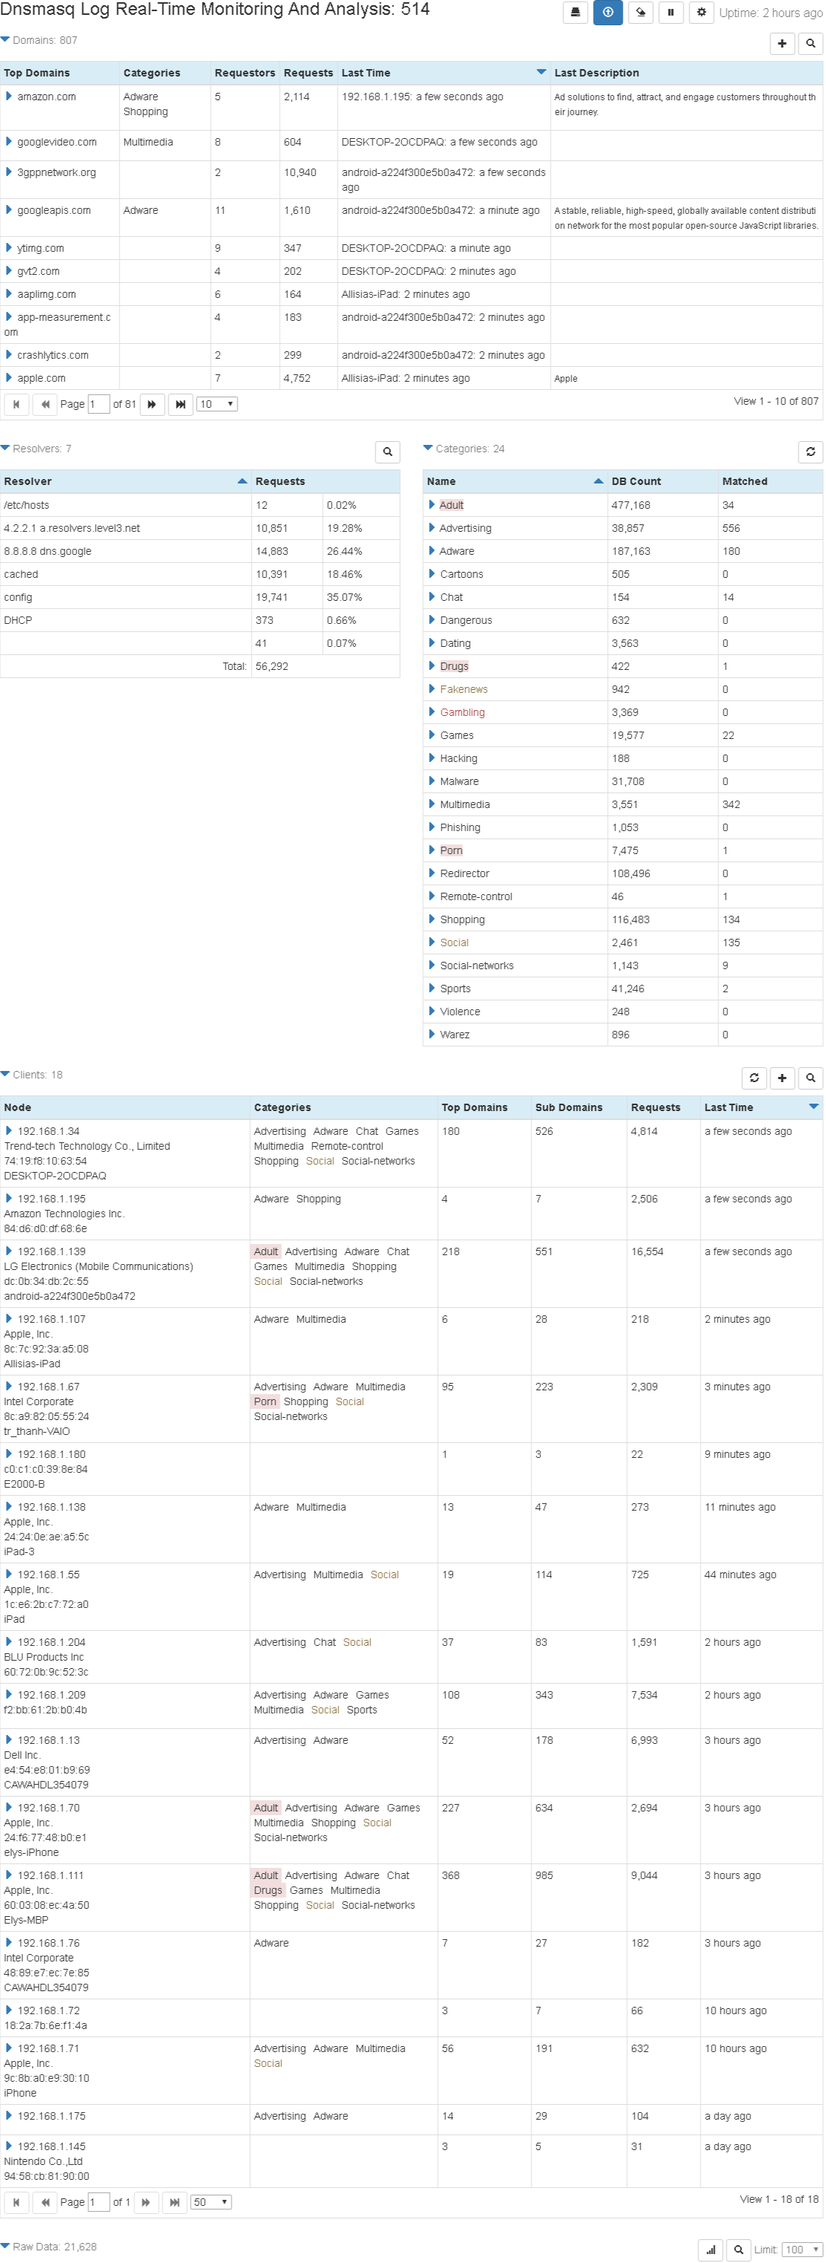
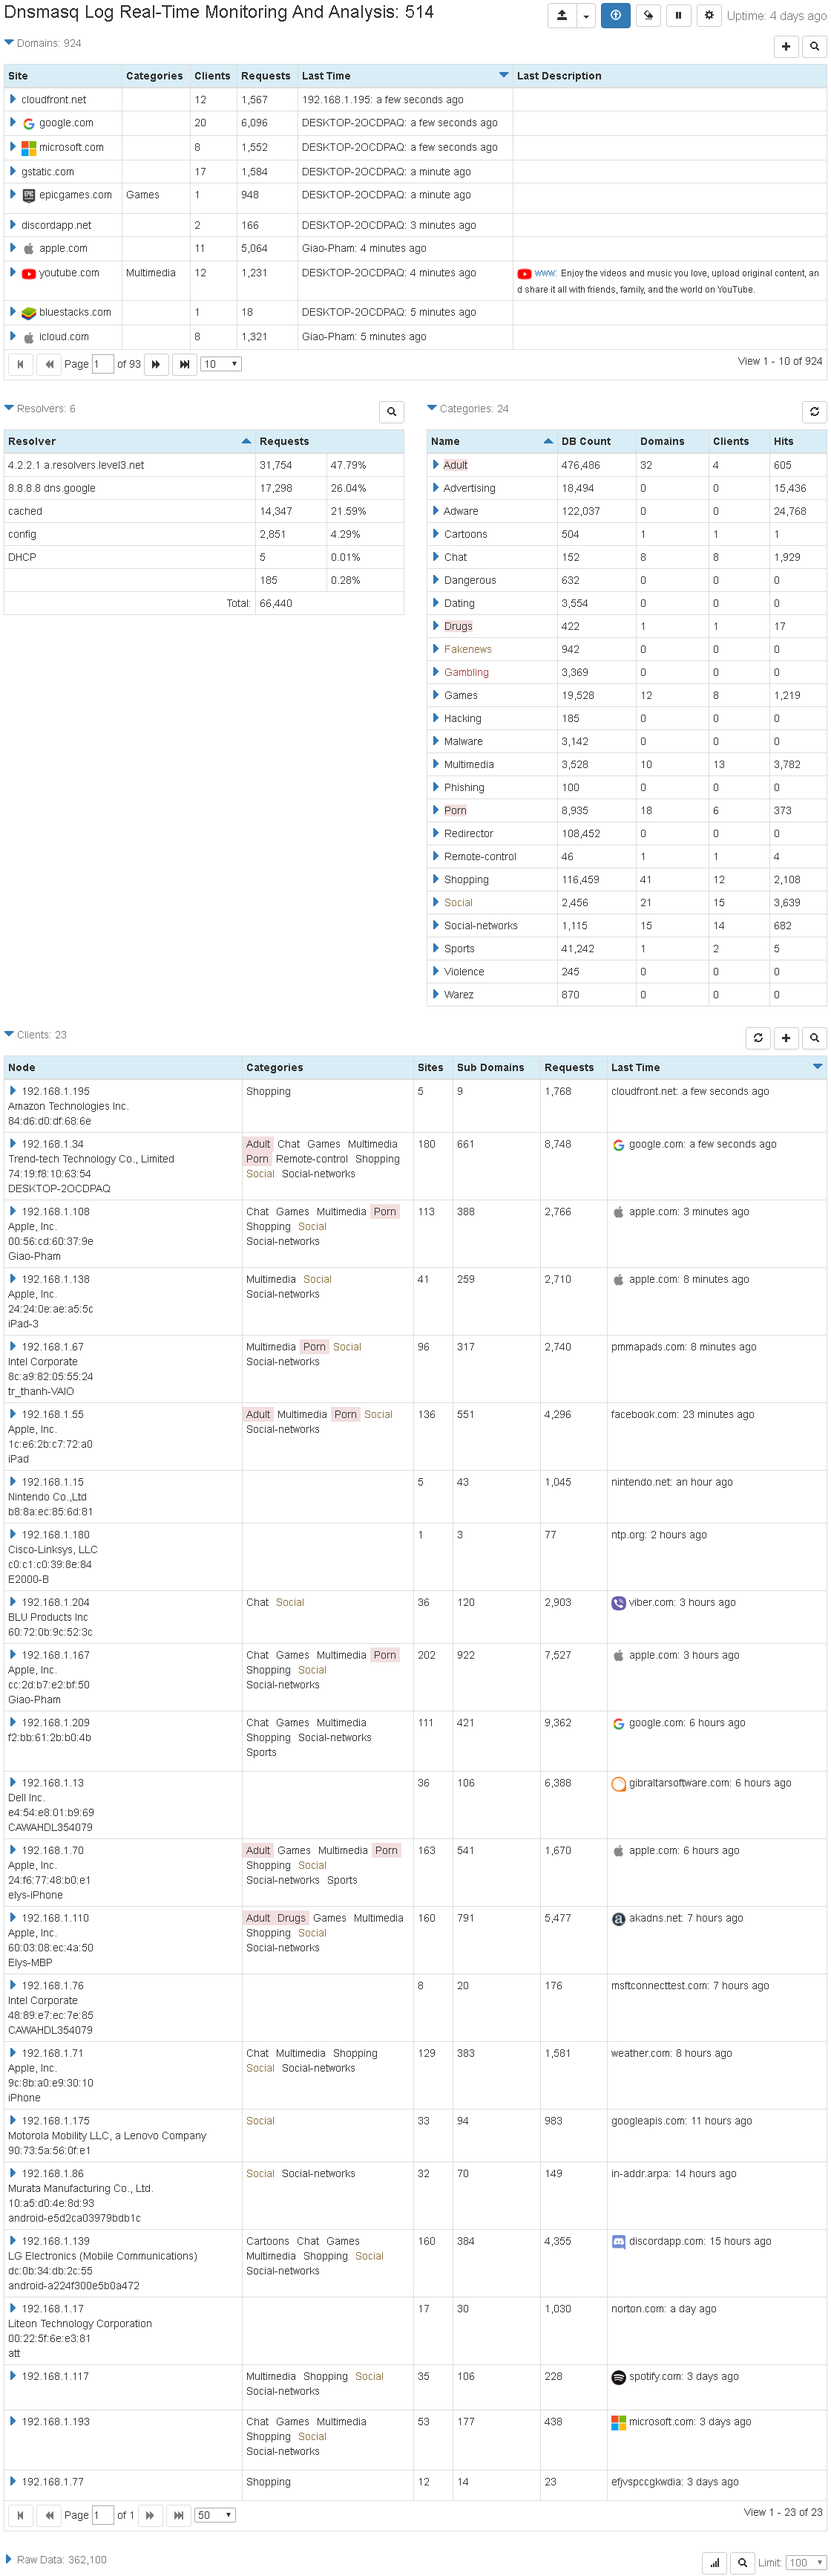
minor updates

diff --git a/DnsmasqLogMonitoringAndAnalysis/wwwroot/js/dnsmasq.js b/DnsmasqLogMonitoringAndAnalysis/wwwroot/js/dnsmasq.js
@@ -299,13 +299,7 @@
             },
             queries: [],
             queriesOptions: {
-                expand: { hidden: true, sort: { orderBy: 'lastRequestTime', orderReverse: true }, limit: 50 },
-                resolveNames: function () {
-                    $.each(dnsmasq.queries, function (index, client) {
-                        delete dnsmasq.hostnames[client.key];
-                        $scope.networkResolve(client.key, client);
-                    });
-                }
+                expand: { hidden: true, sort: { orderBy: 'lastRequestTime', orderReverse: true }, limit: 50 }
             },
             resolvers: [],
             resolversOptions: { expand: { hidden: true, sort: { orderBy: 'key', orderReverse: false } }, sum: { totalRequests: 0 } },
@@ -476,10 +470,10 @@
                     };
                     topDomain.records.push(domain);
                 }
-                var requestor = domain.records.find(function (x) { return x.key === loggedEvent.requestor; });
+                var requestor = domain.records.find(function (x) { return x.client.key === loggedEvent.requestor; });
                 if (typeof requestor === 'undefined') {
                     requestor = {
-                        key: loggedEvent.requestor,
+                        client: client,
                         lastRequestTime: loggedEvent.time,
                         totalRequests: 0,
                         records: [loggedEvent],
@@ -487,8 +481,6 @@
                     };
                     domain.records.push(requestor);
                     ++domain.totalRequestors;
-
-                    $scope.networkResolve(loggedEvent.requestor, requestor);
 
                     var topDomainRequestors = topDomain.requestors.find(function (x) { return x === loggedEvent.requestor; });
                     if (typeof topDomainRequestors === 'undefined') {
@@ -818,7 +810,11 @@
                         if (typeof client.hostnames === 'undefined') {
                             client.hostnames = [];
                         }
-                        hostnameObj = client.hostnames.find(function (x) { return x.name === hostname || x.mac === mac; });
+                        hostnameObj = client.hostnames.find(function (x) {
+                            var nameLowerCase = typeof x.name === 'string' ? x.name.toLowerCase() : x.name;
+                            var hostnameLowerCase = typeof hostname === 'string' ? hostname.toLowerCase() : hostname;
+                            return nameLowerCase === hostnameLowerCase || x.mac === mac;
+                        });
                         if (typeof hostnameObj === 'undefined') {
                             hostnameObj = { mac: mac, name: hostname };
                             client.hostnames.push(hostnameObj);
@@ -829,6 +825,9 @@
 
                     if (typeof hostname !== 'undefined' && hostname.length) {
                         dnsmasq.hostnames[ip] = hostname;
+                        if (typeof client !== 'undefined') {
+                            client.hostname = hostname;
+                        }
                     }
 
                     if (typeof mac !== 'undefined' && mac.length) {
@@ -945,9 +944,6 @@
                 return moment(date.join(' '), 'YYYY MMM D HH:mm:ss');
             }
         });
-
-        // query for the updated host name of the clients every 15 minutes
-        setInterval(function () { dnsmasq.queriesOptions.resolveNames(); }, 15 * 60 * 1000);
 
         // query for the website description which processes 10 request at a time
         setInterval(function () {

diff --git a/DnsmasqLogMonitoringAndAnalysis/Startup.cs b/DnsmasqLogMonitoringAndAnalysis/Startup.cs
@@ -196,6 +196,8 @@ namespace DnsmasqLogMonitoringAndAnalysis
 
         public static void StoreDescription(string domain, string description)
         {
+            // remove the {{ and }} to avoid in conflict with AngularJS
+            description = description.Replace("{{", "[[").Replace("}}", "]]");
             StoreValue(domain, description, DescriptionsStorage, DescriptionsFilePath);
         }
 
